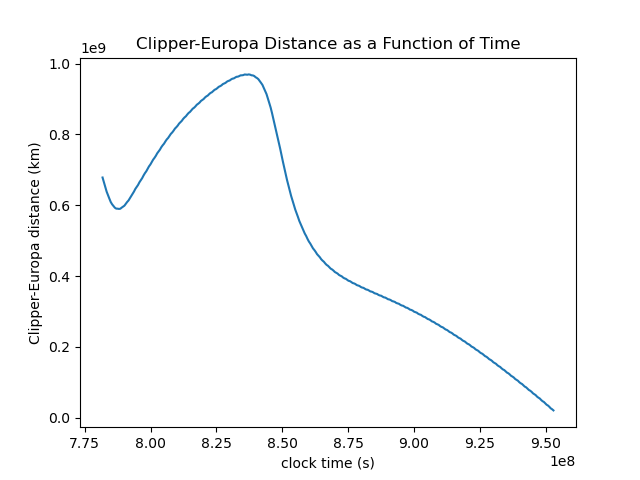
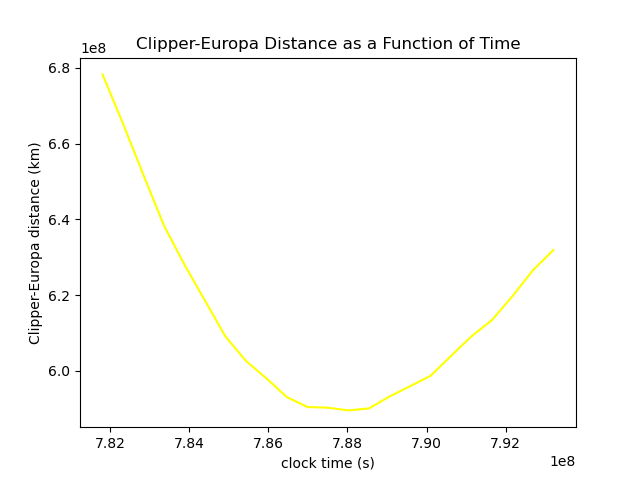
added matching line colors

diff --git a/clipper3.py b/clipper3.py
@@ -2493,21 +2493,21 @@ class MainWindow(QMainWindow):
         tsteps = self.state.timesteps_plt
 
         plt.figure()
-        plt.plot(tsteps, self.state.clipper_europa_dist_plt)
+        plt.plot(tsteps, self.state.clipper_europa_dist_plt, color=(1.0, 1.0, 0))
         plt.xlabel("clock time (s)")
         plt.ylabel("Clipper-Europa distance (km)")
         plt.title("Clipper-Europa Distance as a Function of Time")
         plt.savefig(os.path.join(plt_metrics_path, "clipper_europa_dist.png"))
 
         plt.figure()
-        plt.plot(tsteps, self.state.clipper_vel_plt)
+        plt.plot(tsteps, self.state.clipper_vel_plt, color=(0.016, 0.85, 1.0))
         plt.xlabel("clock time (s)")
         plt.ylabel("Clipper velocity (km/s)")
         plt.title("Clipper Velocity as a Function of Time")
         plt.savefig(os.path.join(plt_metrics_path, "clipper_vel.png"))
 
         plt.figure()
-        plt.plot(tsteps, self.state.clipper_acc_plt)
+        plt.plot(tsteps, self.state.clipper_acc_plt, color=(1, 0.063, 0.96))
         plt.ticklabel_format(axis='y', style='sci')
         plt.xlabel("clock time (s)")
         plt.ylabel("Clipper acceleration (km/s$^2$)")
